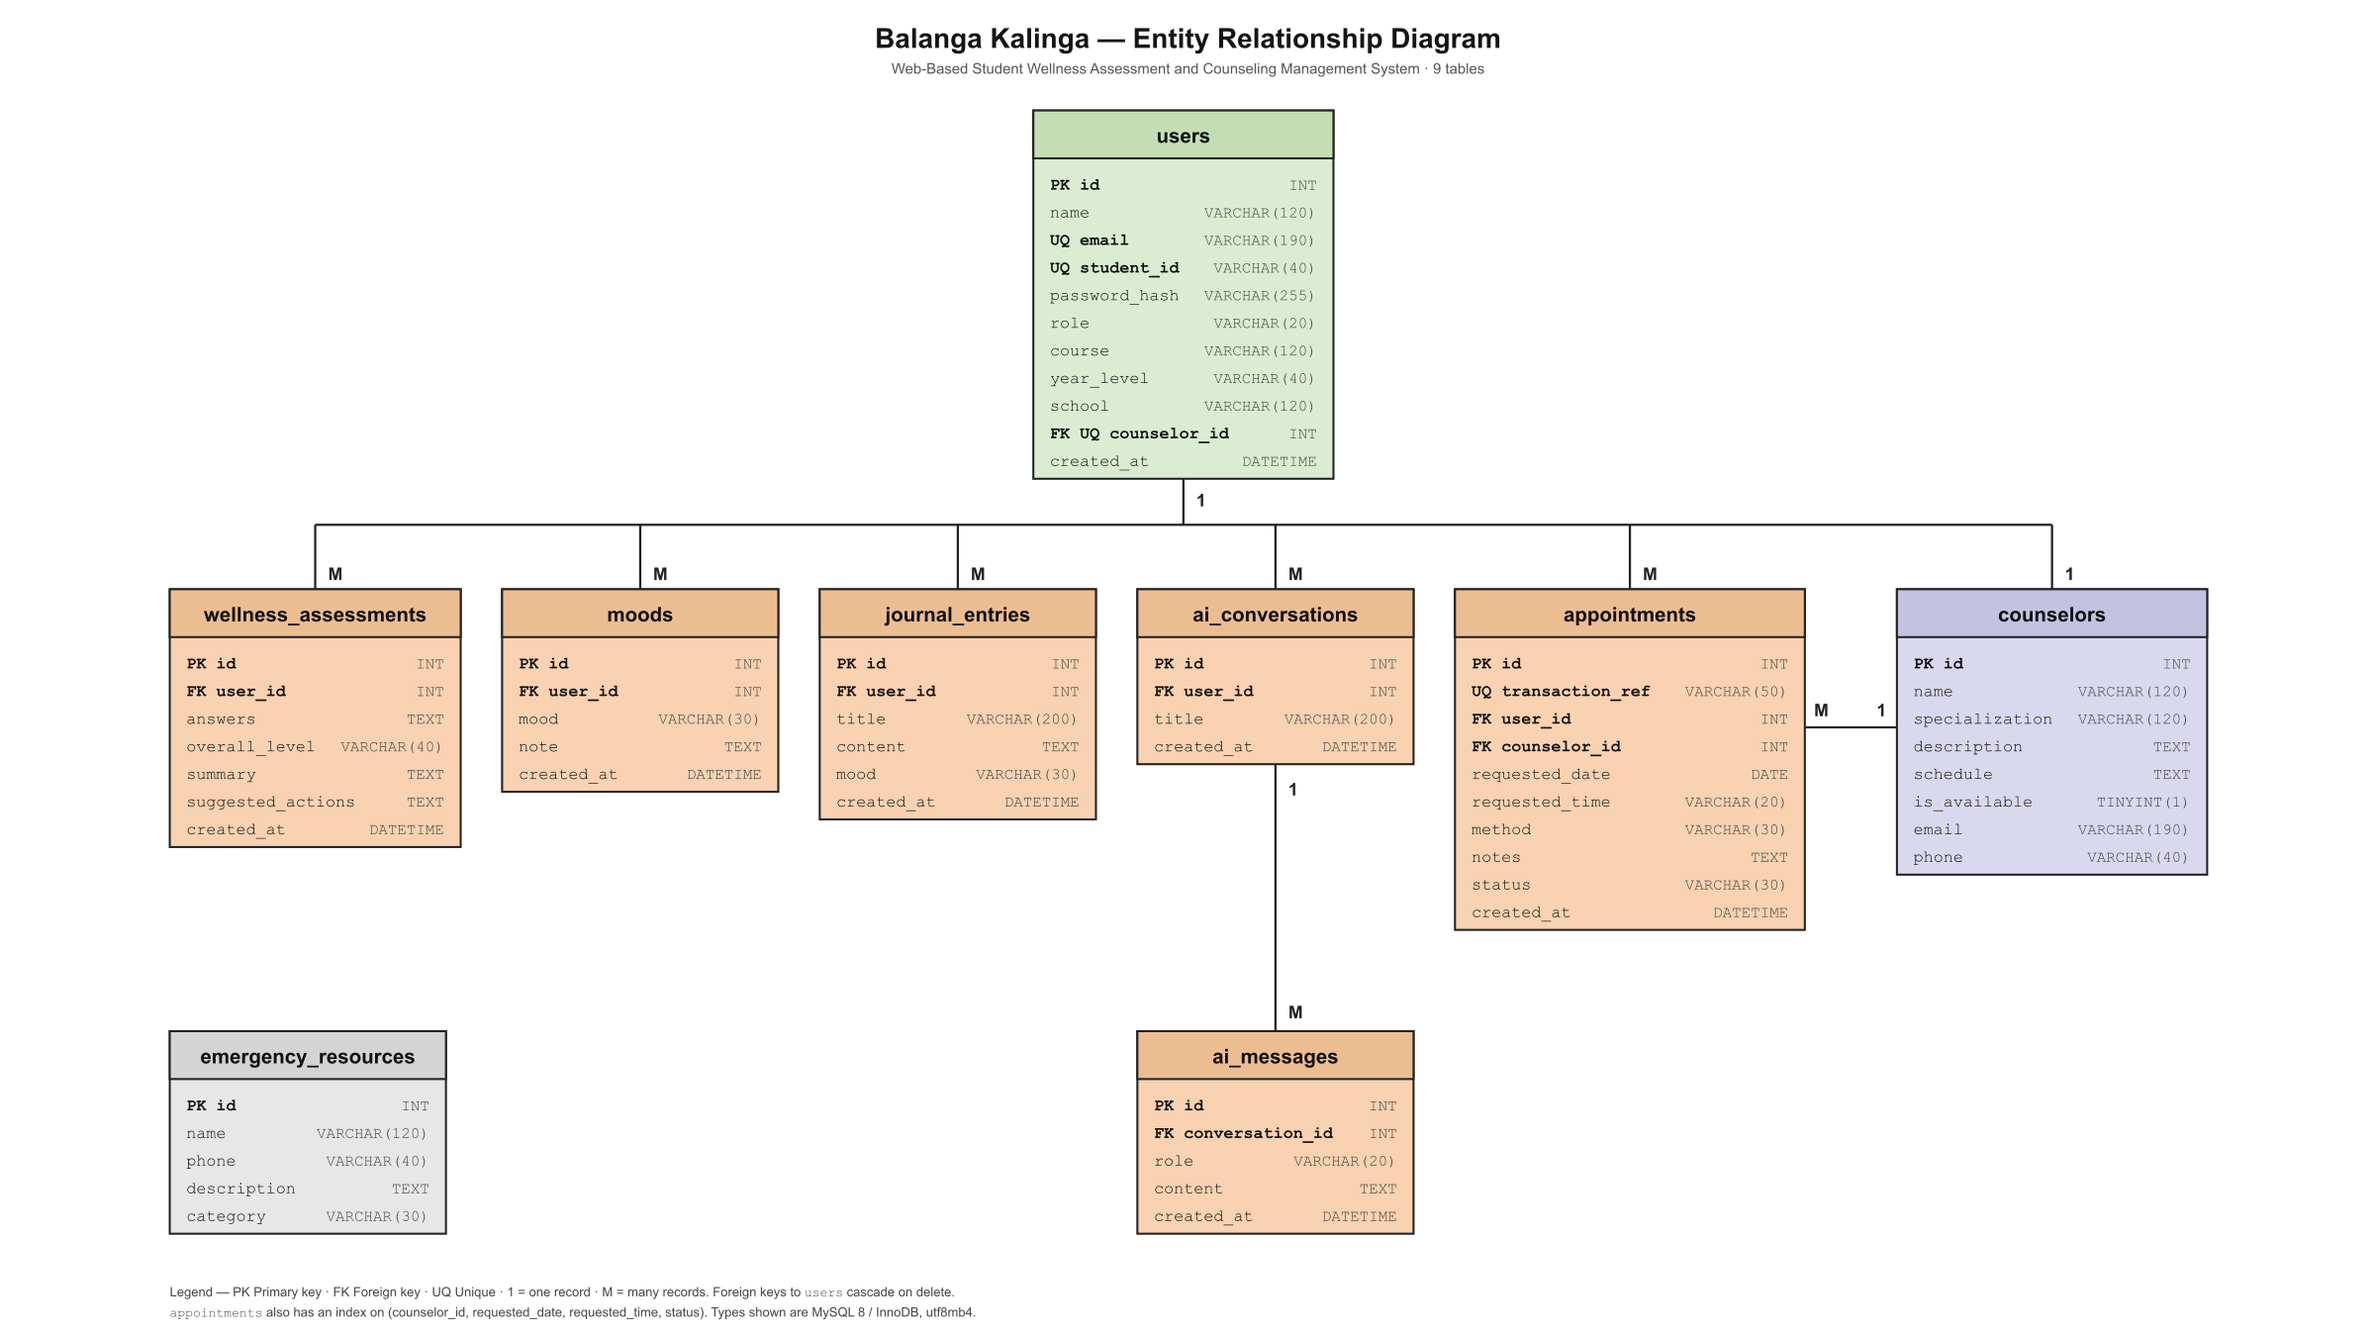
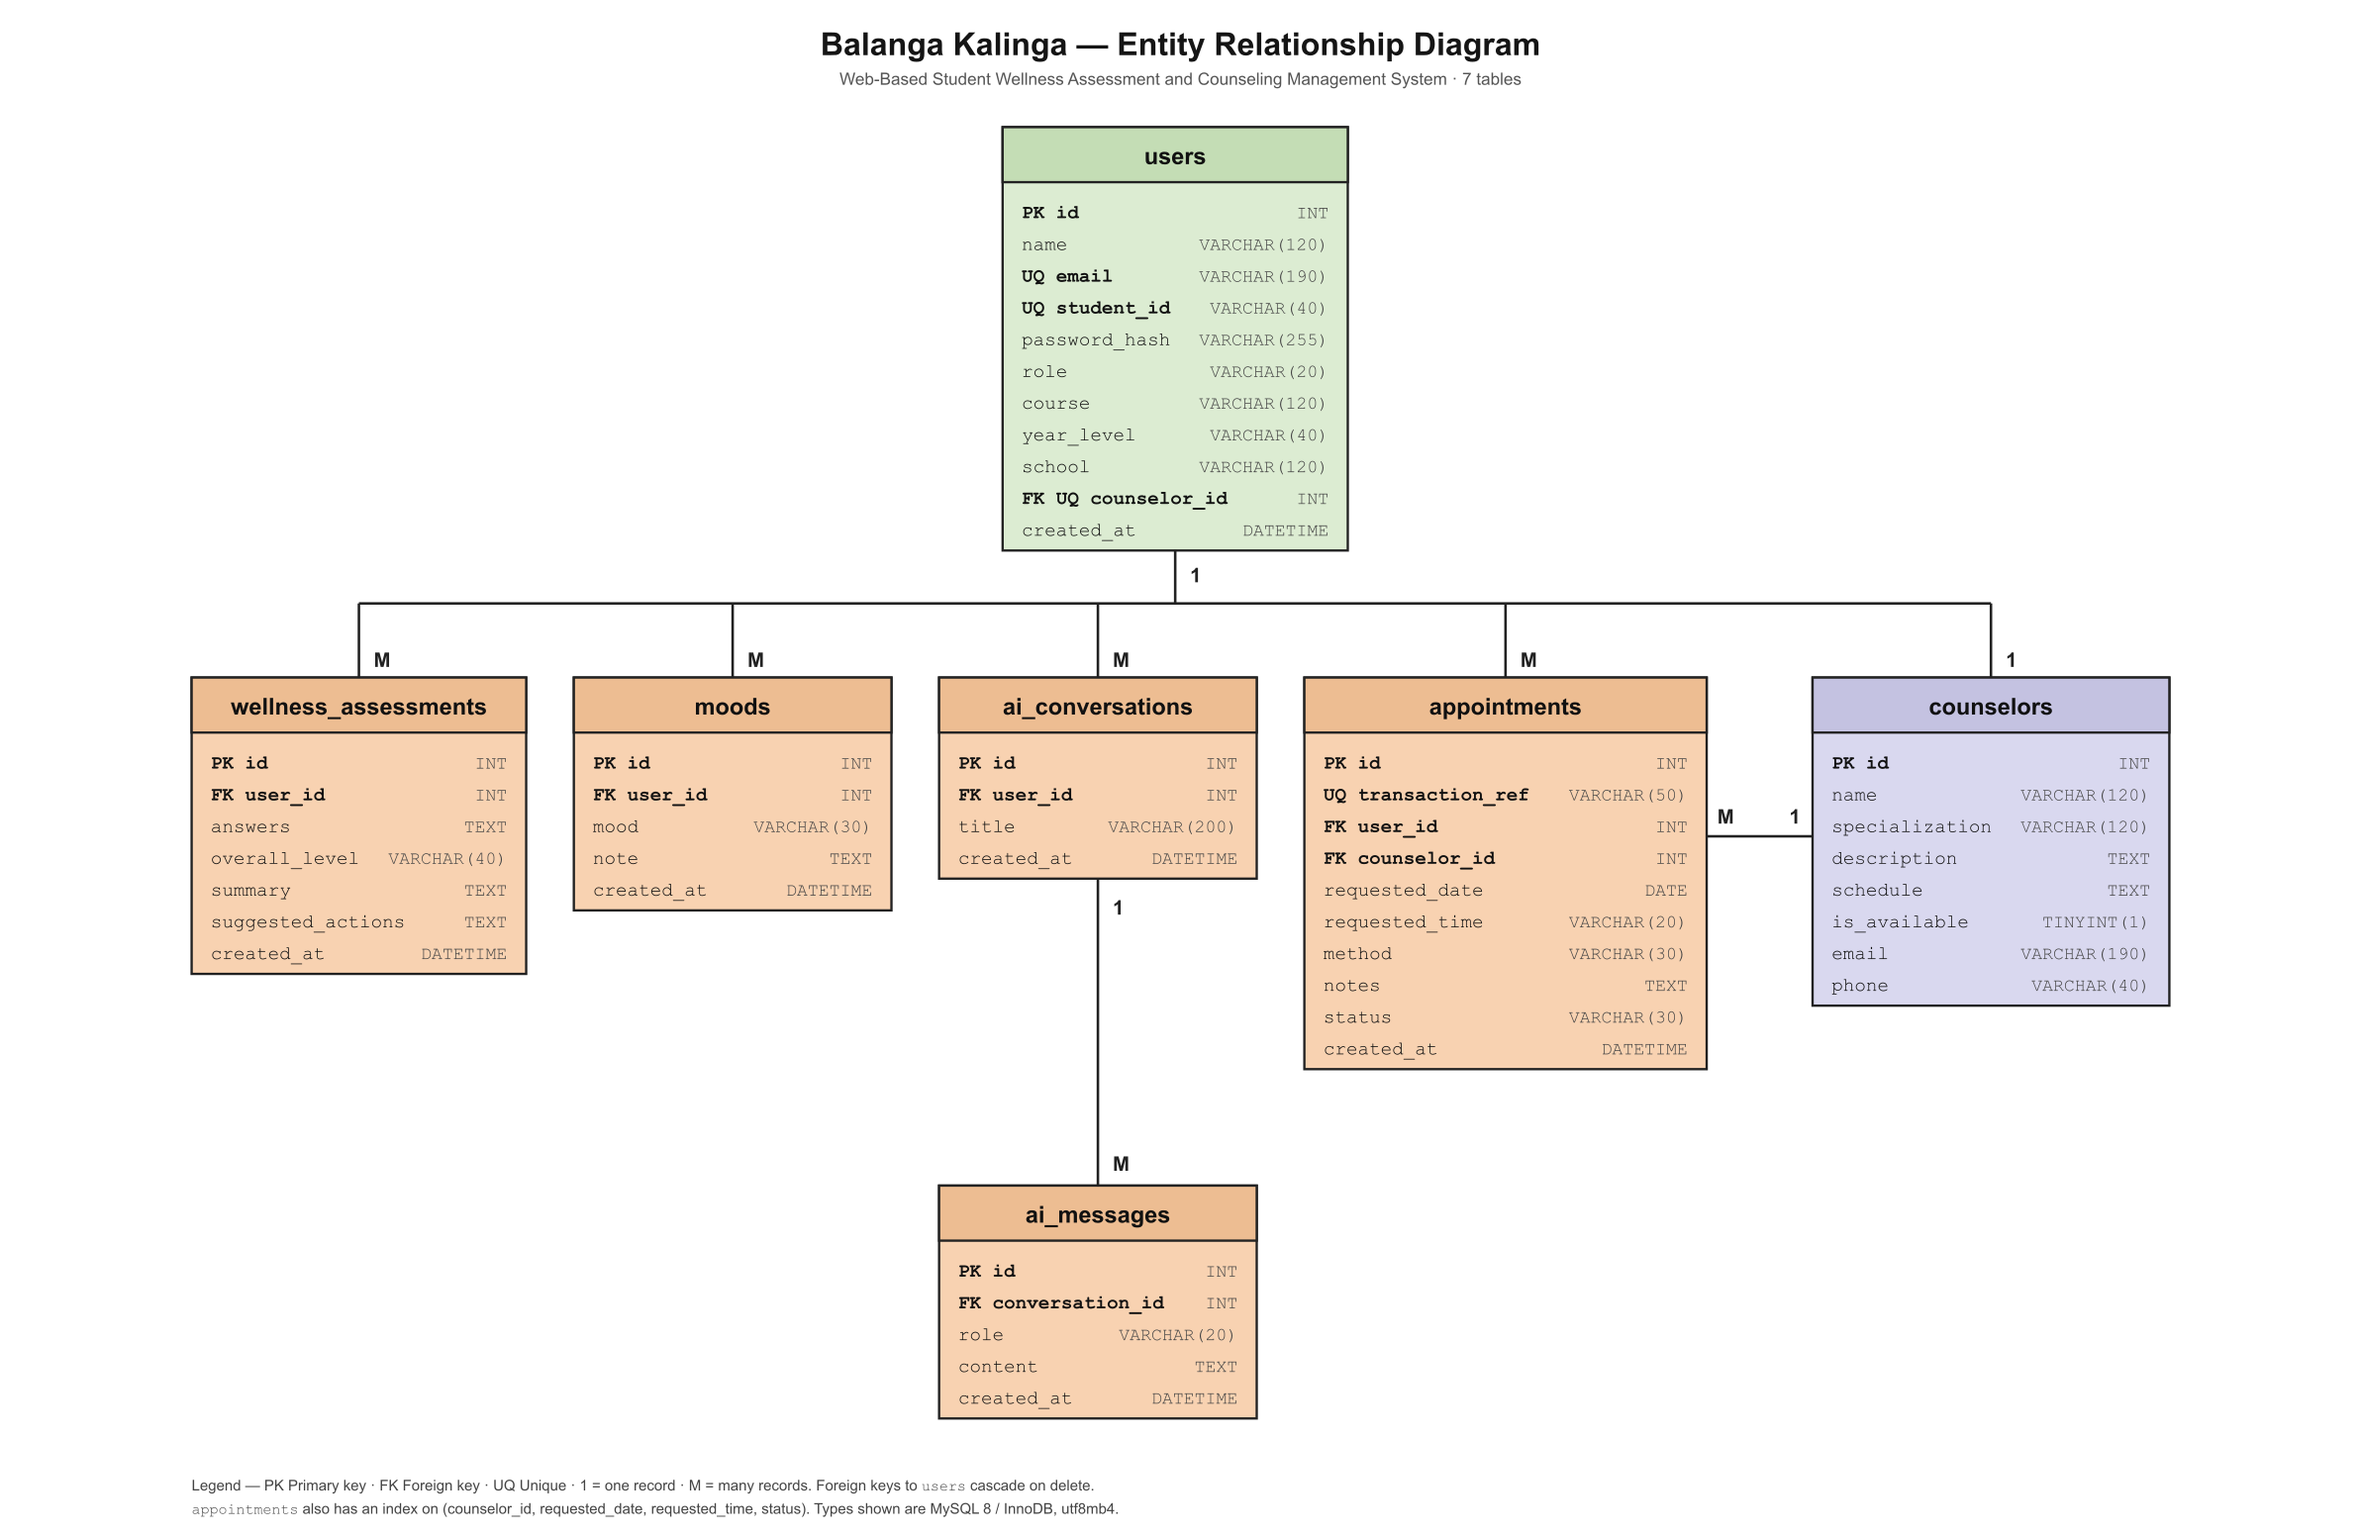
Drop journal_entries and emergency_resources: no screen uses them; ERD now 7 tables

diff --git a/lib/db.js b/lib/db.js
@@ -96,15 +96,6 @@ export async function initDb() {
     created_at DATETIME NOT NULL DEFAULT CURRENT_TIMESTAMP,
     FOREIGN KEY (user_id) REFERENCES users(id) ON DELETE CASCADE
   ) ENGINE=InnoDB DEFAULT CHARSET=utf8mb4`);
-  await p.query(`CREATE TABLE IF NOT EXISTS journal_entries (
-    id INT AUTO_INCREMENT PRIMARY KEY,
-    user_id INT NOT NULL,
-    title VARCHAR(200) DEFAULT '',
-    content TEXT NOT NULL,
-    mood VARCHAR(30) DEFAULT 'okay',
-    created_at DATETIME NOT NULL DEFAULT CURRENT_TIMESTAMP,
-    FOREIGN KEY (user_id) REFERENCES users(id) ON DELETE CASCADE
-  ) ENGINE=InnoDB DEFAULT CHARSET=utf8mb4`);
   await p.query(`CREATE TABLE IF NOT EXISTS ai_conversations (
     id INT AUTO_INCREMENT PRIMARY KEY,
     user_id INT NOT NULL,
@@ -179,13 +170,6 @@ export async function initDb() {
   } catch (error) {
     if (error?.code !== "ER_DUP_KEYNAME") throw error;
   }
-  await p.query(`CREATE TABLE IF NOT EXISTS emergency_resources (
-    id INT AUTO_INCREMENT PRIMARY KEY,
-    name VARCHAR(120) NOT NULL,
-    phone VARCHAR(40) NOT NULL,
-    description TEXT NOT NULL,
-    category VARCHAR(30) NOT NULL
-  ) ENGINE=InnoDB DEFAULT CHARSET=utf8mb4`);
   for (const statement of [
     "ALTER TABLE users ADD COLUMN counselor_id INT NULL UNIQUE",
   ]) {
